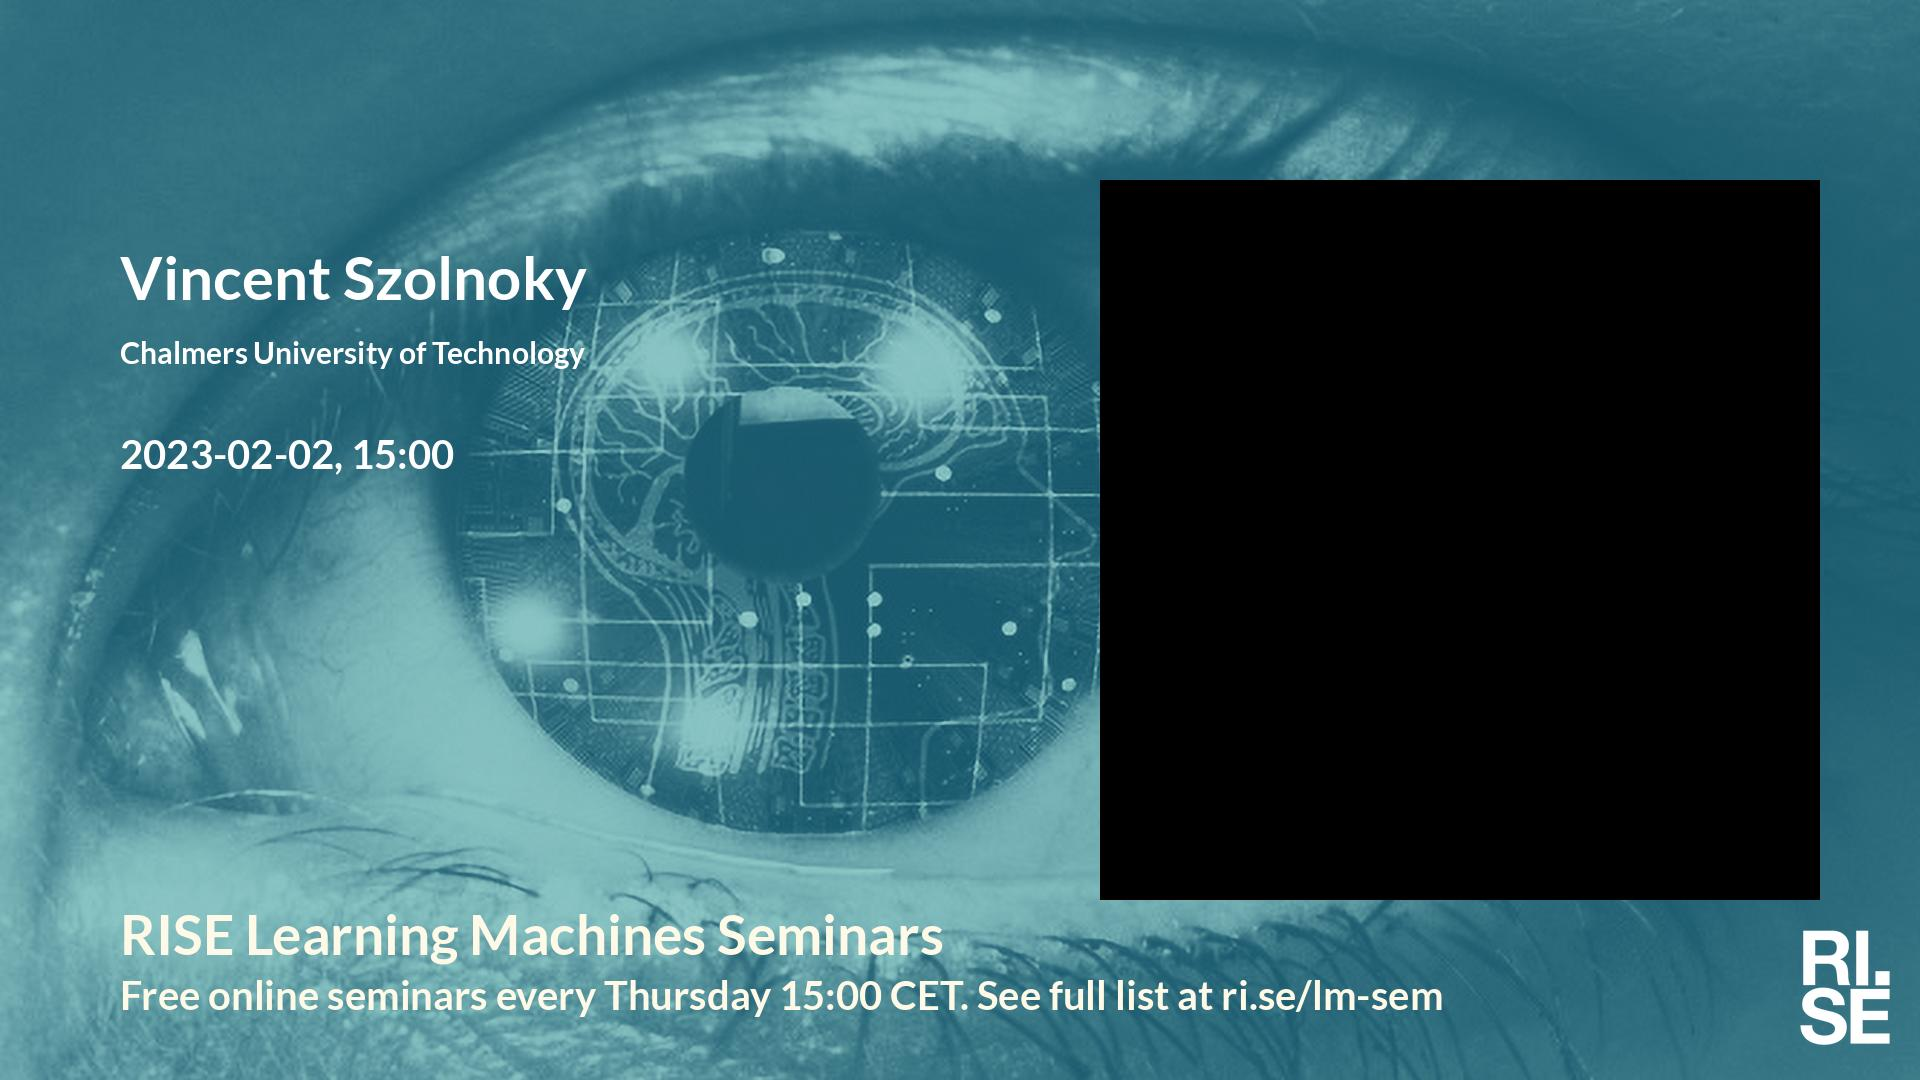
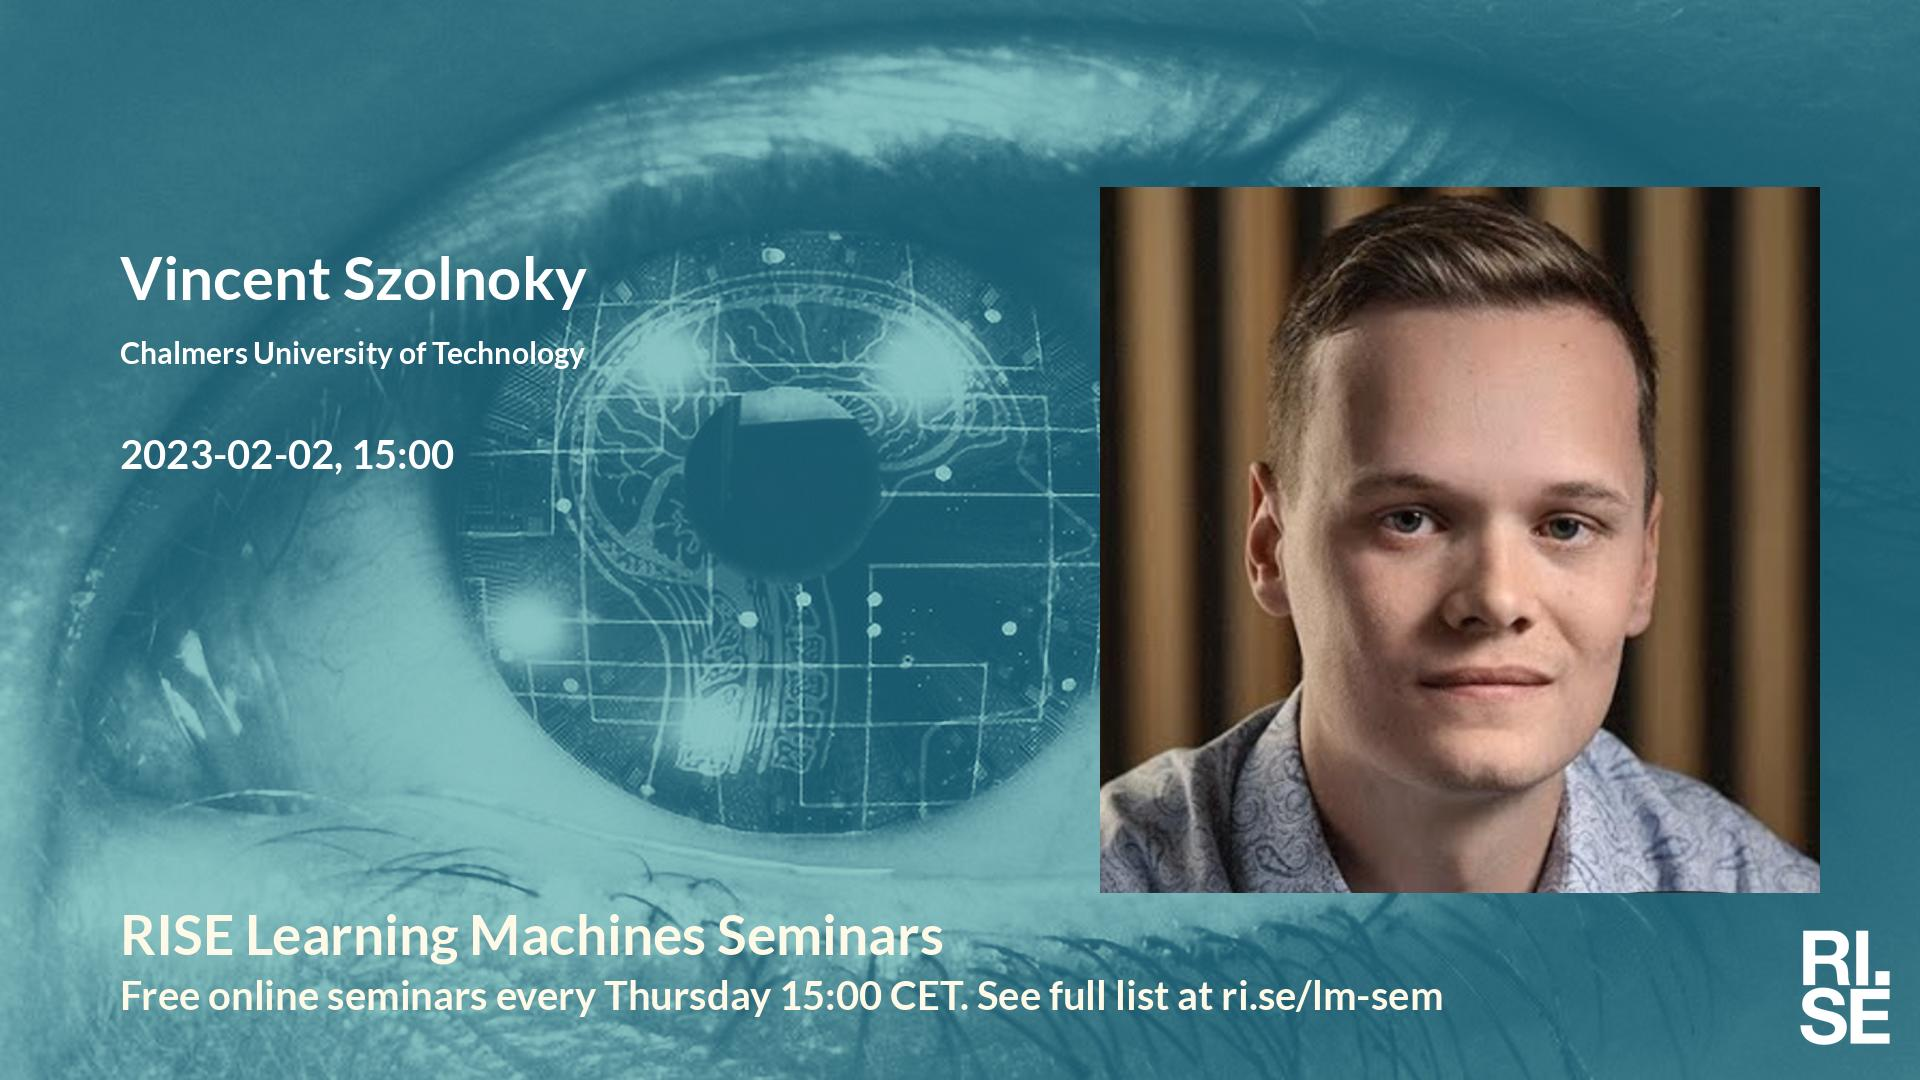
Updated plan on web site.

Changed region(s): [[0.5625, 0.1528, 0.9688, 0.8556]]

diff --git a/lm/index.md b/lm/index.md
@@ -15,7 +15,7 @@ table {border-collapse: collapse;}
 |  2023-01-12  |  [Mark D. Plumbley, University of Surrey](2023-01-12.md)  |  [photo](photo-mark-d.-plumbley.jpg)  |  [social media ](social-media-mark-d.-plumbley.jpg)  |  [meeting backdrop ](meeting-backdrop-mark-d.-plumbley.jpg)  |  [youtube thumbnail ](youtube-thumbnail-mark-d.-plumbley.jpg)  |  (confirmed)     |
 |  2023-01-19  |  [Giulia Fanti, Carnegie Mellon University](2023-01-19.md)  |  [photo](photo-giulia-fanti.jpg)  |  [social media ](social-media-giulia-fanti.jpg)  |  [meeting backdrop ](meeting-backdrop-giulia-fanti.jpg)  |  [youtube thumbnail ](youtube-thumbnail-giulia-fanti.jpg)  |  (confirmed)     |
 | <span style="color:grey"> 2023-01-26 </span> | <span style="color:grey"> Lena V. ? Kristin B. ? Mathias N. ? </span> | <span style="color:grey">  </span> | <span style="color:grey">  </span> | <span style="color:grey">  </span> | <span style="color:grey">  </span> | <span style="color:grey"> (not confirmed) </span> |
-|  2023-02-02  |  [Vincent Szolnoky, Chalmers University of Technology](2023-02-02.md)  |    |  [social media ](social-media-vincent-szolnoky.jpg)  |  [meeting backdrop ](meeting-backdrop-vincent-szolnoky.jpg)  |  [youtube thumbnail ](youtube-thumbnail-vincent-szolnoky.jpg)  |  (confirmed)     |
+|  2023-02-02  |  [Vincent Szolnoky, Chalmers University of Technology](2023-02-02.md)  |  [photo](photo-vincent-szolnoky.png)  |  [social media ](social-media-vincent-szolnoky.jpg)  |  [meeting backdrop ](meeting-backdrop-vincent-szolnoky.jpg)  |  [youtube thumbnail ](youtube-thumbnail-vincent-szolnoky.jpg)  |  (confirmed)     |
 | <span style="color:grey"> 2023-02-09 </span> | <span style="color:grey"> Timnit G. ? </span> | <span style="color:grey">  </span> | <span style="color:grey">  </span> | <span style="color:grey">  </span> | <span style="color:grey">  </span> | <span style="color:grey"> (not confirmed) </span> |
 | <span style="color:red"> 2023-02-16 </span> | <span style="color:red"> Sportlov-GBG </span> | <span style="color:red">  </span> | <span style="color:red">  </span> | <span style="color:red">  </span> | <span style="color:red">  </span> | <span style="color:red"> (cancelled) </span> |
 |  2023-02-23  |  [Alexander Ilin, Aalto University](2023-02-23.md)  |    |  [social media ](social-media-alexander-ilin.jpg)  |  [meeting backdrop ](meeting-backdrop-alexander-ilin.jpg)  |  [youtube thumbnail ](youtube-thumbnail-alexander-ilin.jpg)  |  (confirmed)     |
